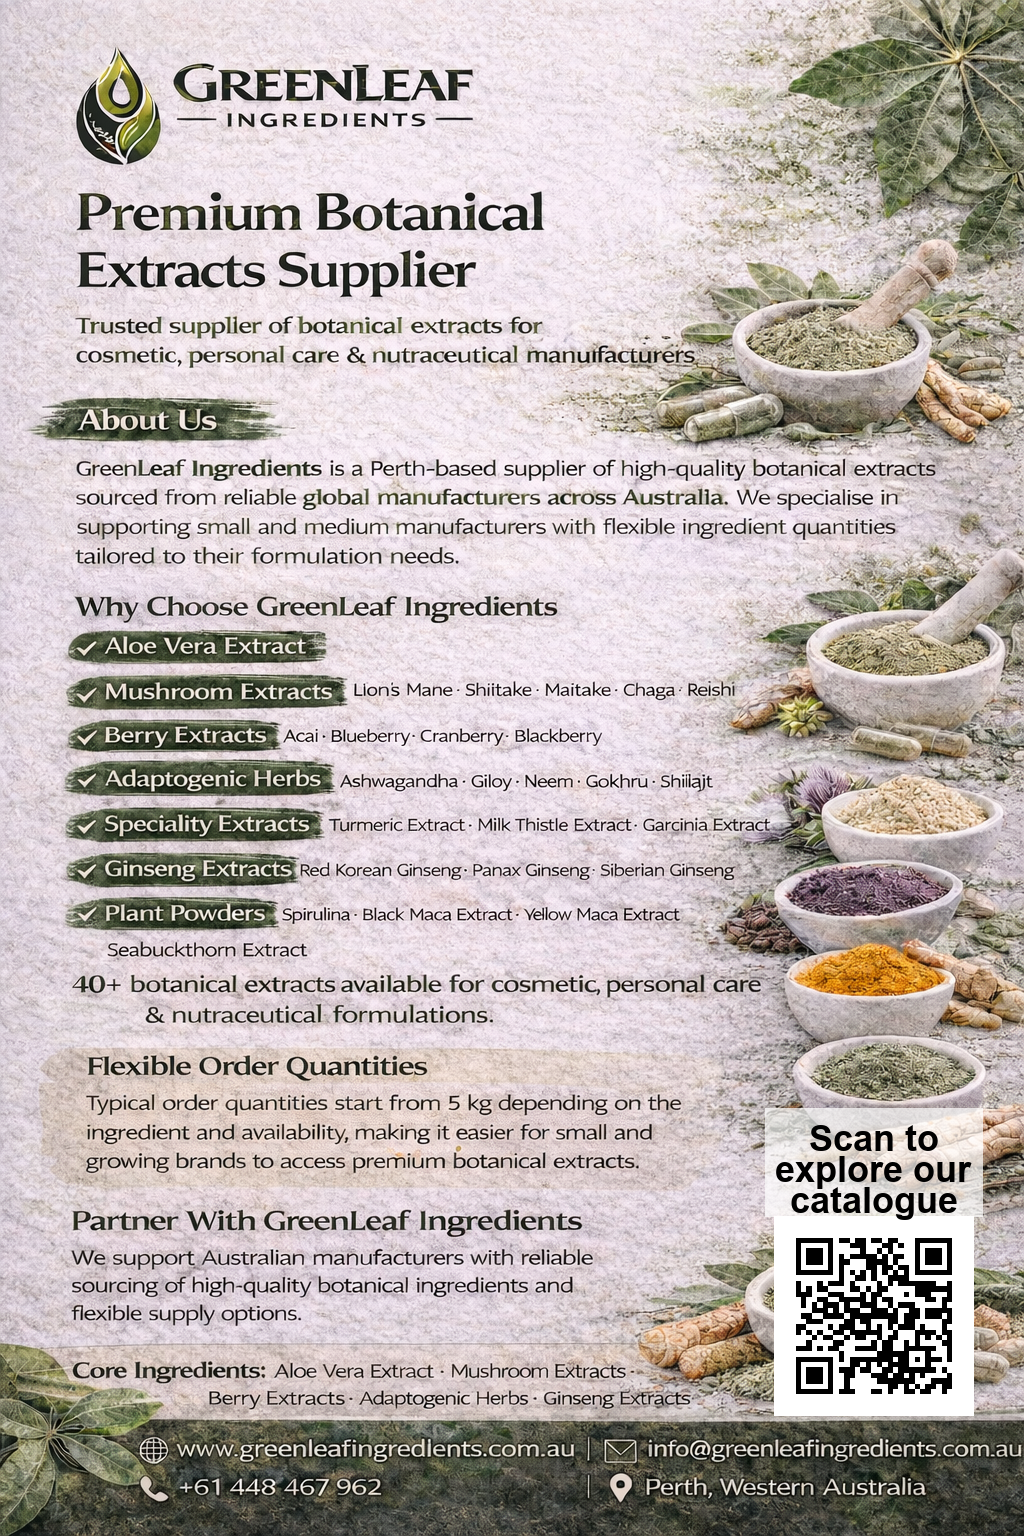
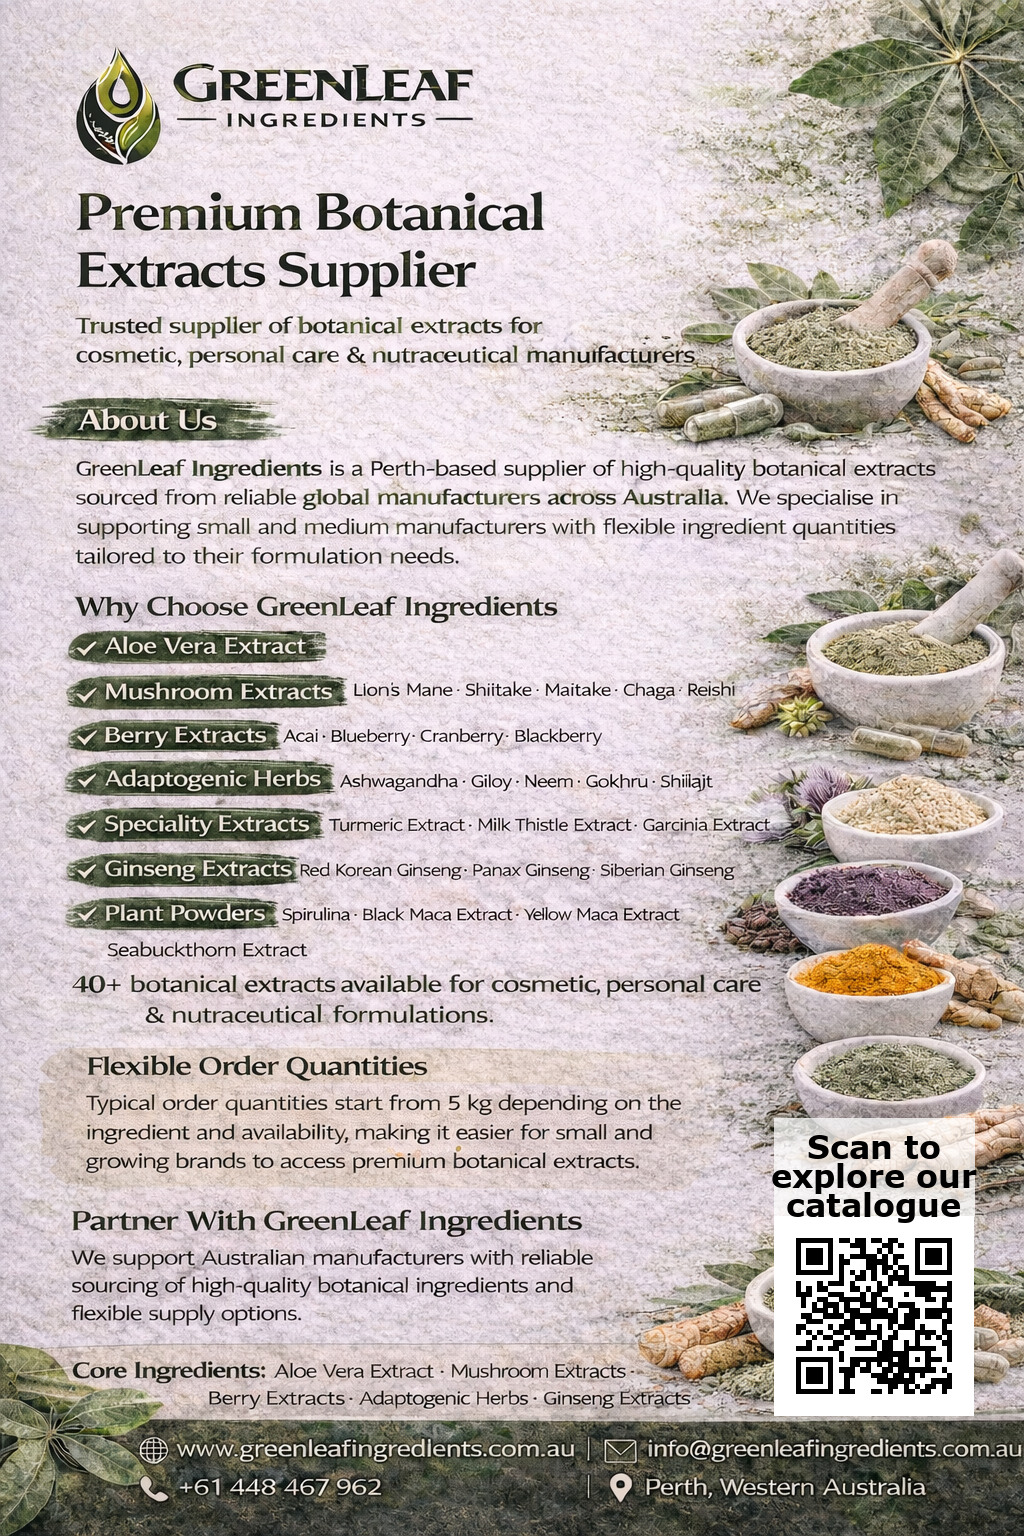
Align background with QR code boundaries and improve font typography

Changed region(s): [[0.75, 0.7188, 0.9688, 0.8125]]

diff --git a/add_qr_to_image.py b/add_qr_to_image.py
@@ -34,20 +34,28 @@ text_line2 = "explore our"
 text_line3 = "catalogue"
 
 # Try to use bold/thick font to match flyer style
-font_size = 36
+font_size = 32
 try:
-    # Try bold Arial first
-    font = ImageFont.truetype("arialbd.ttf", font_size)
+    # Try Segoe UI Bold first (more modern)
+    font = ImageFont.truetype("seguib.ttf", font_size)
 except:
     try:
-        # Try regular Arial with larger size
-        font = ImageFont.truetype("arial.ttf", font_size)
+        # Try Verdana Bold
+        font = ImageFont.truetype("verdanab.ttf", font_size)
     except:
         try:
             # Try Calibri Bold
             font = ImageFont.truetype("calibrib.ttf", font_size)
         except:
-            font = ImageFont.load_default()
+            try:
+                # Try bold Arial
+                font = ImageFont.truetype("arialbd.ttf", font_size)
+            except:
+                try:
+                    # Try regular Arial with larger size
+                    font = ImageFont.truetype("arial.ttf", font_size)
+                except:
+                    font = ImageFont.load_default()
 
 # Calculate text position for multiple lines (above QR code on the right)
 text_bbox1 = draw.textbbox((0, 0), text_line1, font=font)
@@ -58,29 +66,21 @@ text_height = text_bbox1[3] - text_bbox1[1]
 line_spacing = 5
 total_text_height = (text_height * 3) + (line_spacing * 2)
 
-text_x1 = x + (qr_size - text_width1) // 2
-text_y1 = y - total_text_height - 10
-
 text_bbox2 = draw.textbbox((0, 0), text_line2, font=font)
 text_width2 = text_bbox2[2] - text_bbox2[0]
-text_x2 = x + (qr_size - text_width2) // 2
-text_y2 = text_y1 + text_height + line_spacing
 
 text_bbox3 = draw.textbbox((0, 0), text_line3, font=font)
 text_width3 = text_bbox3[2] - text_bbox3[0]
-text_x3 = x + (qr_size - text_width3) // 2
-text_y3 = text_y2 + text_height + line_spacing
 
-# Find the bounding box for all 3 lines of text to draw background
-max_text_width = max(text_width1, text_width2, text_width3)
-box_padding = 10
-box_left = x + (qr_size - max_text_width) // 2 - box_padding
-box_top = text_y1 - box_padding
-box_right = box_left + max_text_width + (box_padding * 2)
-box_bottom = text_y3 + text_height + box_padding
+# Align background with QR code boundaries
+box_padding = 8
+box_left = x
+box_right = x + qr_size
+box_top = y - total_text_height - (box_padding * 2)
+box_bottom = y
 
 # Create a background with semi-transparent white
-background_color = (255, 255, 255, 180)  # White with transparency
+background_color = (255, 255, 255, 190)  # White with slight transparency
 
 # Draw semi-transparent background rectangle
 overlay_bg = Image.new("RGBA", base.size, (0, 0, 0, 0))
@@ -92,6 +92,16 @@ base = Image.alpha_composite(base.convert("RGBA"), overlay_bg).convert("RGB")
 
 # Redraw the text on top of the background
 draw = ImageDraw.Draw(base)
+
+# Recalculate text positions to center within the background box
+text_x1 = box_left + (qr_size - text_width1) // 2
+text_y1 = box_top + box_padding
+
+text_x2 = box_left + (qr_size - text_width2) // 2
+text_y2 = text_y1 + text_height + line_spacing
+
+text_x3 = box_left + (qr_size - text_width3) // 2
+text_y3 = text_y2 + text_height + line_spacing
 
 # Draw text in dark color with semi-bold appearance
 draw.text((text_x1, text_y1), text_line1, fill=(0, 0, 0), font=font)
